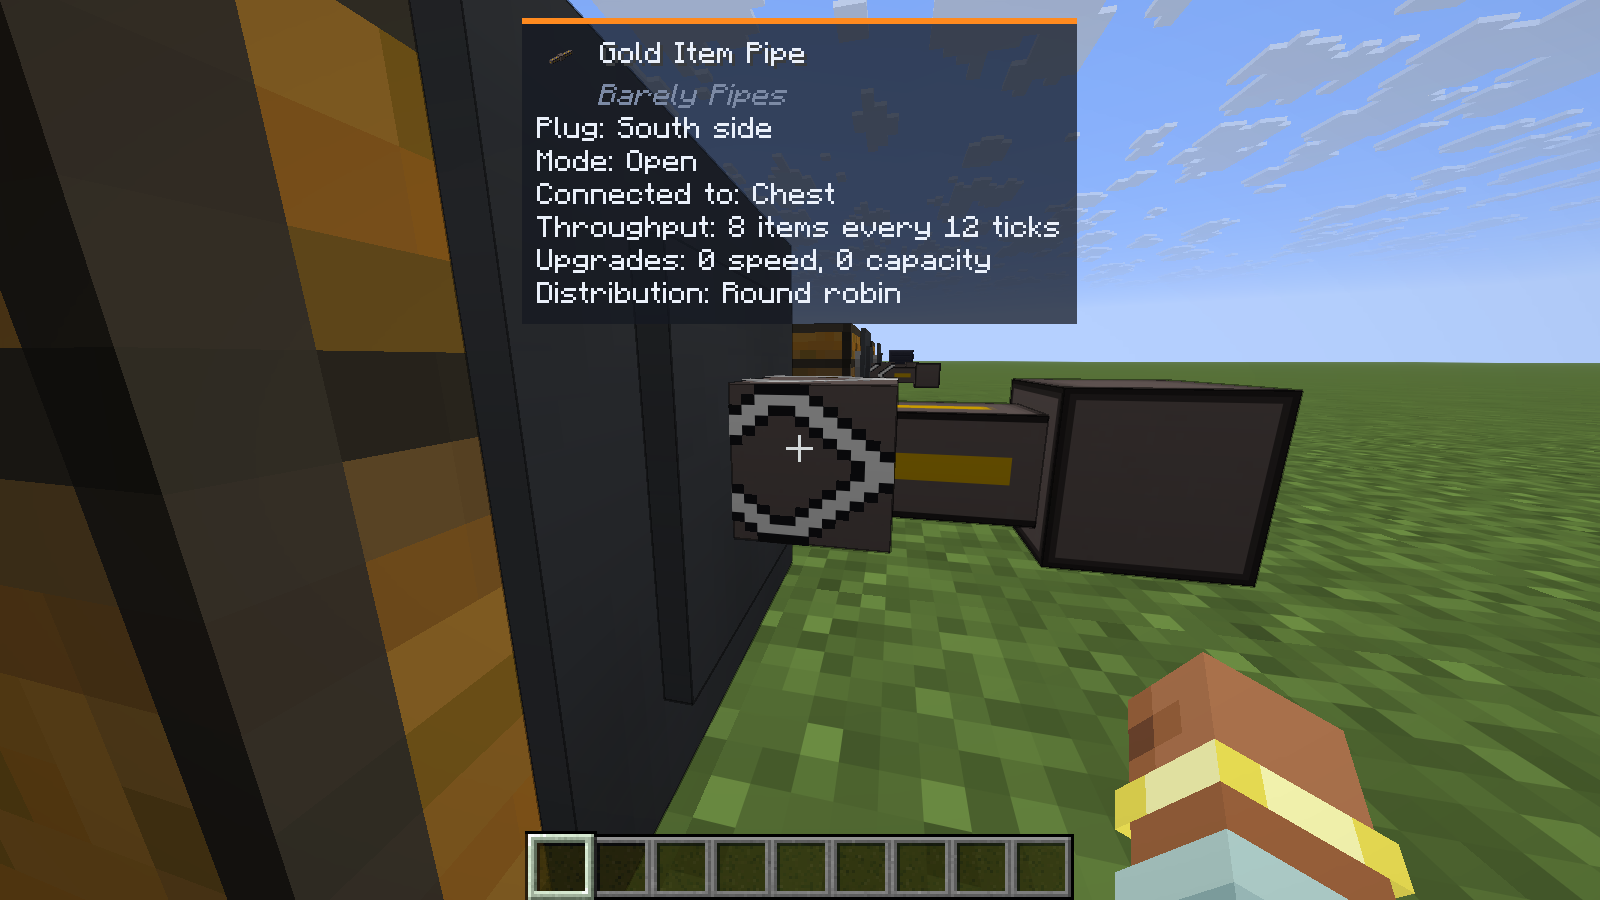
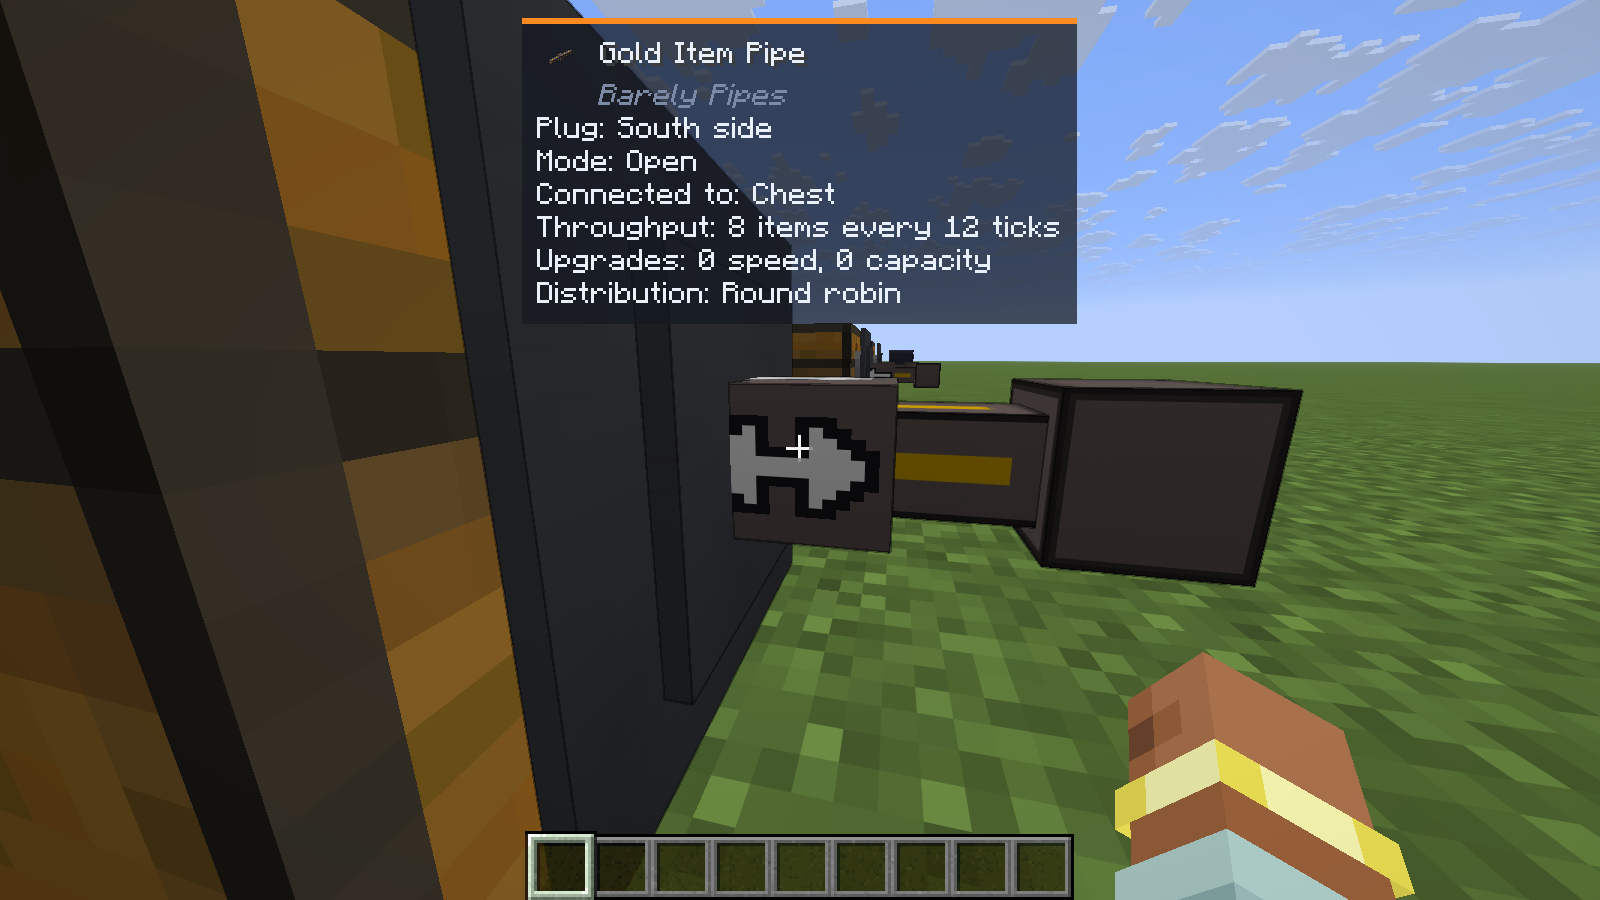
Plug overlays: one small outlined arrow instead of double chevrons

Changed region(s): [[0.4375, 0.4044, 0.5625, 0.6222]]

diff --git a/scripts/gen_plug_overlays.py b/scripts/gen_plug_overlays.py
@@ -2,9 +2,10 @@
 
   python scripts/gen_plug_overlays.py            (from the repo root)
 
-Each is a 16x16 PNG with bright chevrons on a transparent field, the same for every pipe: pipe_overlay_plug_up, _down, _left and
-_right point that way in the texture, _both_v and _both_h point both ways along the height or the width. The plug side face they
-go on is only 3 by 4 pixels of the block, so the chevrons are bold and fill the whole width. Running it again changes nothing.
+Each is a 16x16 PNG with one small arrow on a transparent field, the same for every pipe: pipe_overlay_plug_up, _down, _left and
+_right point that way in the texture, _both_v and _both_h have a head at each end. The arrow is a plain shaft with a triangular
+head, light with a dark edge, and leaves a margin round it because the plug side face it goes on is only 3 by 4 pixels of the
+block. Running it again changes nothing.
 """
 import os
 
@@ -16,42 +17,48 @@ COLOR = (245, 245, 245, 255)
 EDGE = (20, 20, 24, 255)
 
 
-def chevron_up(img, top):
-    """A chevron pointing up whose tip is at row `top`, 14 wide, 3 thick, with a dark edge."""
-    pix = img.load()
-    for k in range(7):
-        for dx in (-1, 0):
-            for x in (7 + dx - k, 8 - dx + k):
-                for dy in range(3):
-                    if 0 <= x < 16 and 0 <= top + k + dy < 16:
-                        pix[x, top + k + dy] = EDGE
-    for k in range(7):
-        for x in (7 - k, 8 + k):
-            for dy in range(2):
-                if 0 <= x < 16 and 0 <= top + k + dy < 16:
-                    pix[x, top + k + dy] = COLOR
+def arrow_cells(double):
+    """The filled cells of an arrow pointing up (head at the top), or of a two-headed one."""
+    cells = set()
+    top, bottom = 2, 13
+    for k in range(4):  # head: 2, 4, 6, 8 wide
+        for x in range(7 - k, 9 + k):
+            cells.add((x, top + k))
+    for y in range(top + 4, bottom + 1):  # shaft, 2 wide
+        for x in (7, 8):
+            cells.add((x, y))
+    if double:
+        for k in range(4):
+            for x in range(7 - k, 9 + k):
+                cells.add((x, bottom - k))
+    return cells
 
 
-def up(rows):
+def draw(cells):
     img = Image.new('RGBA', (16, 16), (0, 0, 0, 0))
-    for top in rows:
-        chevron_up(img, top)
+    pix = img.load()
+    for x, y in cells:
+        for dx in (-1, 0, 1):
+            for dy in (-1, 0, 1):
+                nx, ny = x + dx, y + dy
+                if 0 <= nx < 16 and 0 <= ny < 16 and (nx, ny) not in cells:
+                    pix[nx, ny] = EDGE
+    for x, y in cells:
+        pix[x, y] = COLOR
     return img
 
 
 def main():
-    one = up((0, 8))
+    one = draw(arrow_cells(False))
+    both_v = draw(arrow_cells(True))
     out = {
         'up': one,
         'down': one.transpose(Image.FLIP_TOP_BOTTOM),
         'left': one.transpose(Image.ROTATE_90),
         'right': one.transpose(Image.ROTATE_270),
+        'both_v': both_v,
+        'both_h': both_v.transpose(Image.ROTATE_90),
     }
-    both_v = Image.new('RGBA', (16, 16), (0, 0, 0, 0))
-    both_v.alpha_composite(up((0,)).crop((0, 0, 16, 8)).resize((16, 8)), (0, 0))
-    both_v.alpha_composite(up((0,)).transpose(Image.FLIP_TOP_BOTTOM).crop((0, 8, 16, 16)), (0, 8))
-    out['both_v'] = both_v
-    out['both_h'] = both_v.transpose(Image.ROTATE_90)
     for name, img in out.items():
         img.save(os.path.join(BLOCK, f'pipe_overlay_plug_{name}.png'))
         print('wrote', name)

diff --git a/PROJECT_STATUS.md b/PROJECT_STATUS.md
@@ -21,7 +21,7 @@ Spend: none
 
 ## 2026.11.2 fixes (from Casey's play test)
 - [x] Outline, collision and clicks follow the drawn pipe boxes (ConduitLayout.pick, unit tests, all ten builds) (w:3)
-- [~] Plug arrows for import, export and open and a readable gas plug glyph, centered storage and pipe screen glyphs (all ten builds, unit tests and self test; close-up frames on NeoForge 26.1.2 at 0.4 block and 54 degrees show the chevrons at the plug's glyph face edge and the vanilla outline hugging the arm (docs/frames/neoforge-26.1.2/closeup_*), but the glyph face is only visible at grazing angles and the direction of the chevrons is not readable by eye, so the arrows stay unproven as a readable direction hint; straight-on frames along the pipe axis on 2026-11-10 (docs/frames/viewers/neoforge-26.1.2/rackplug_plug_*.png) show only the pipe core, which hides the glyph face, so a player cannot read the arrows head-on; Casey's idea is to put the arrows on the plug's side faces, which are visible from normal angles: built as overlays on NeoForge 26.1.2 only so far: six shared overlay textures (scripts/gen_plug_overlays.py) laid over the plug's four side faces by PipeTextures.plugOverlay (unit tested) and BundleBakedModel.addPlug; frames docs/frames/viewers/neoforge-26.1.2/overlay_{side,top,normal}_{import,export,open}.png show the chevrons pointing into the pipe for import, out for export and both ways for open, readable from about two blocks; the baked model of the other nine builds does not draw them yet, a 2026.11.4 change) (w:3)
+- [~] Plug arrows for import, export and open and a readable gas plug glyph, centered storage and pipe screen glyphs (all ten builds, unit tests and self test; close-up frames on NeoForge 26.1.2 at 0.4 block and 54 degrees show the chevrons at the plug's glyph face edge and the vanilla outline hugging the arm (docs/frames/neoforge-26.1.2/closeup_*), but the glyph face is only visible at grazing angles and the direction of the chevrons is not readable by eye, so the arrows stay unproven as a readable direction hint; straight-on frames along the pipe axis on 2026-11-10 (docs/frames/viewers/neoforge-26.1.2/rackplug_plug_*.png) show only the pipe core, which hides the glyph face, so a player cannot read the arrows head-on; Casey's idea is to put the arrows on the plug's side faces, which are visible from normal angles: built as overlays on NeoForge 26.1.2 only so far: six shared overlay textures, one small outlined arrow (a head at each end for open) (scripts/gen_plug_overlays.py) laid over the plug's four side faces by PipeTextures.plugOverlay (unit tested) and BundleBakedModel.addPlug; frames docs/frames/viewers/neoforge-26.1.2/overlay_{side,top,normal}_{import,export,open}.png show the arrow pointing into the pipe for import, out toward the neighbor for export and two-headed for open, readable from about two blocks; the baked model of the other nine builds does not draw them yet, a 2026.11.4 change) (w:3)
 - [x] Show Me What This Is names the exact pipe, tier and details on all ten builds (headless self test lines; overlay read in a client on NeoForge 26.1.2 and 26.3 only) (w:3)
 - [x] See-through top face under BarelyStorage racks, terminals and assembler: cause was missing noOcclusion in BarelyStorage; with the released BarelyStorage 2026.11.3 jar and Barely Pipes in a NeoForge 26.1.2 client the top faces of the server rack, storage terminal, crafting terminal and assembler are all drawn solid when seen from above (frames docs/frames/viewers/neoforge-26.1.2/rackplug_rack_tops_near.png and rackplug_rack_tops_far.png) (w:2)
 
